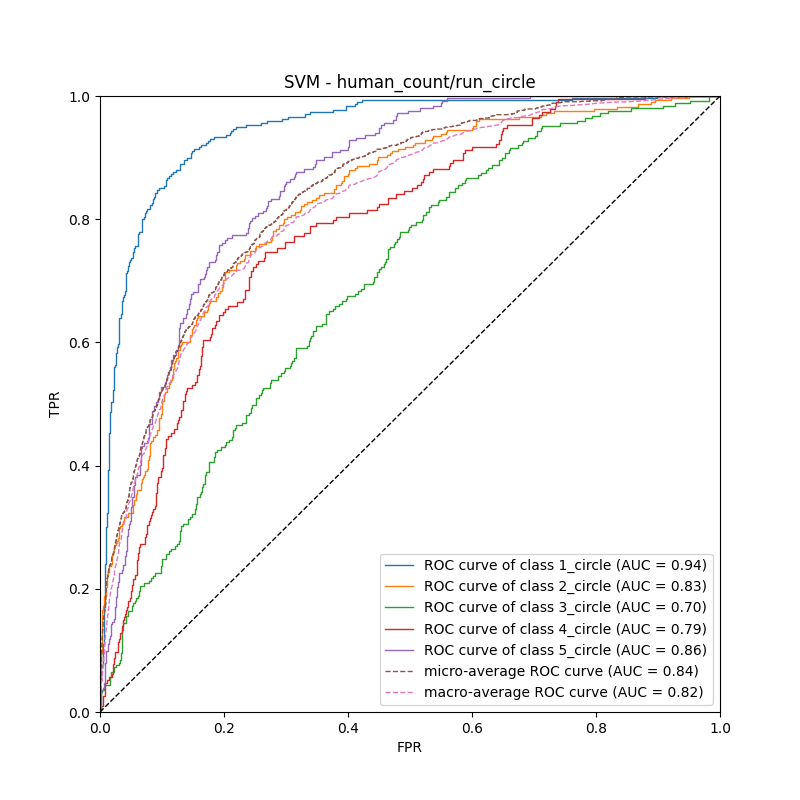
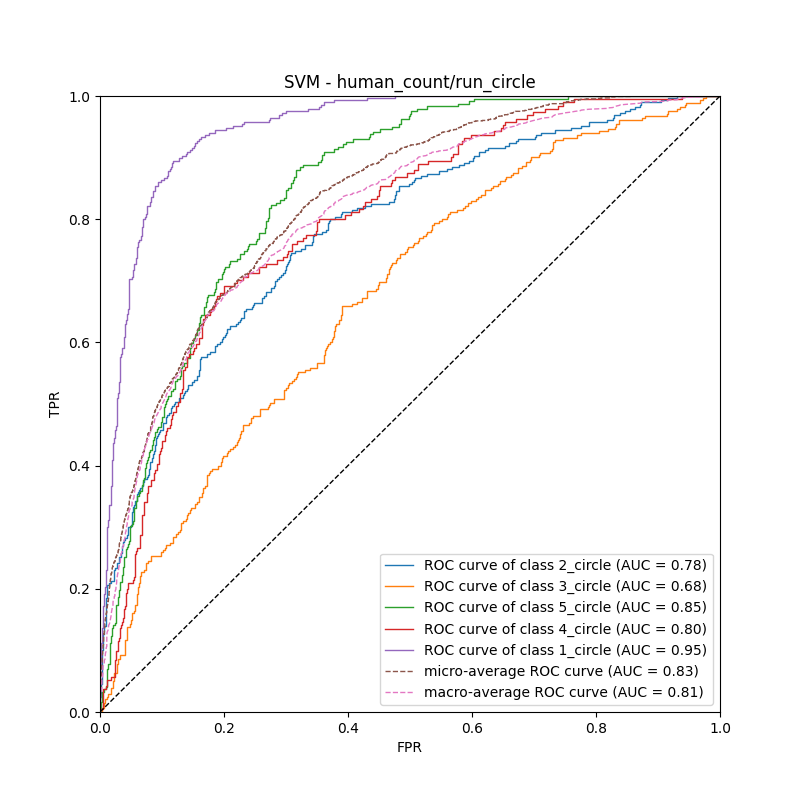
.

diff --git a/lstm.py b/lstm.py
@@ -6,13 +6,13 @@ from sklearn.model_selection import train_test_split
 from torch import nn, optim
 from torch.utils.data import DataLoader, TensorDataset
 
-from utils import load_data, plot_roc, evaluate
+from utils import evaluate, load_data, plot_roc
 
 data_dir = "data/500hz_csi_data/human_count/run_circle"
 labels = os.listdir(data_dir)
 random_state = 0
 batch_size = 32
-device = 'cpu'
+device = "cuda:0"
 
 
 class MyNN(nn.Module):
@@ -20,37 +20,38 @@ class MyNN(nn.Module):
         super(MyNN, self).__init__()
         self.in_proj = nn.Linear(in_features=d_in, out_features=d_hidden)  # 输入映射
         self.lstm = nn.LSTM(d_hidden, d_hidden, num_layers=lstm_layers)  # RNN网络
-        self.aggregate = nn.Conv1d(in_channels=seq_len, out_channels=1, kernel_size=1)  # 聚合函数
+        self.aggr = nn.Conv1d(in_channels=seq_len, out_channels=1, kernel_size=1)  # 聚合函数
         self.out_proj = nn.Linear(d_hidden, d_out)  # 输出映射
         #
         self.reset_parameters()
 
     def forward(self, x):
         x = self.in_proj(x)
-        x, (_, _) = self.lstm(x)
-        x = self.aggregate(x)
+        x, _ = self.lstm(x)
+        x = self.aggr(x)
         x = self.out_proj(x)
         return torch.softmax(x[:, 0], dim=-1)
 
-    def fit(self, data_train: tuple, data_test: tuple, epochs=100):
-        # ndarray to tenser
-        X_train = torch.from_numpy(data_train[0]).float()
-        y_train = torch.from_numpy(data_train[1]).long()
-        X_test = torch.from_numpy(data_test[0]).float()
-        y_test = torch.from_numpy(data_test[1]).long()
-        data_train = DataLoader(TensorDataset(X_train, y_train), batch_size, shuffle=True)
-        data_test = DataLoader(TensorDataset(X_test, y_test), batch_size, shuffle=False)
+    def fit(self, D_train: tuple, D_test: tuple, epochs=100):
+        #
+        X_train = torch.from_numpy(D_train[0]).to(device=device, dtype=torch.float)
+        y_train = torch.from_numpy(D_train[1]).to(device=device, dtype=torch.int64)
+        D_train = DataLoader(TensorDataset(X_train, y_train), batch_size, shuffle=True)
+        #
+        X_test = torch.from_numpy(D_test[0]).to(device=device, dtype=torch.float)
+        y_test = torch.from_numpy(D_test[1]).to(device=device, dtype=torch.int64)
+        D_test = DataLoader(TensorDataset(X_test, y_test), batch_size, shuffle=False)
         #
         loss_fn = nn.CrossEntropyLoss()
         optimizer = optim.Adam(net.parameters(), lr=1e-3)
         #
         outputs = None
         for epoch in range(epochs):
-            L_train, _ = self._run_epoch(data_train, loss_fn, optimizer, mode='train')
-            L_test, outputs = self._run_epoch(data_test, loss_fn, optimizer, mode='test')
+            L_train, _ = self._run_epoch(D_train, loss_fn, optimizer, mode="train")
+            L_test, outputs = self._run_epoch(D_test, loss_fn, optimizer, mode="test")
             accuracy = torch.sum(torch.argmax(outputs, -1) == y_test) / len(outputs)
-            print(f'epoch = {epoch}, loss_train = {L_train:.3f}, loss_test = {L_test:.3f}, accuracy = {accuracy:.3f}')
-        return outputs.numpy()
+            print(f"epoch = {epoch}, loss_train = {L_train:.3f}, loss_test = {L_test:.3f}, accuracy = {accuracy:.3f}")
+        return outputs.cpu().numpy().astype(np.float)
 
     def reset_parameters(self):
         for param in self.parameters():
@@ -60,8 +61,8 @@ class MyNN(nn.Module):
                 f_out = param.size(0)
                 nn.init.uniform_(param, -(f_out ** -0.5), f_out ** -0.5)
 
-    def _run_epoch(self, data: DataLoader, loss_fn: nn.Module, optimizer: optim.Optimizer, mode='train'):
-        is_train = mode == 'train'
+    def _run_epoch(self, data: DataLoader, loss_fn: nn.Module, optimizer: optim.Optimizer, mode="train"):
+        is_train = mode == "train"
         with torch.set_grad_enabled(is_train):
             outputs = []
             L_acc, L_ave = 0, 0
@@ -81,7 +82,7 @@ class MyNN(nn.Module):
 
 if __name__ == "__main__":
     # 加载数据
-    X, y, Y = load_data(data_dir, labels, length=300, stride=30)
+    X, y, Y = load_data(data_dir, labels, length=300, stride=10)
     # 切分数据
     X_train, X_test = train_test_split(X, test_size=0.4, random_state=random_state)
     y_train, y_test = train_test_split(y, test_size=0.4, random_state=random_state)
@@ -93,4 +94,4 @@ if __name__ == "__main__":
     y_pred = np.argmax(Y_score, -1)
     evaluate(y_test, y_pred)
     # 画出ROC曲线
-    plot_roc(Y_test, Y_score, labels, title="LSTM - human_count/run_circle", out_file="out/lstm.roc.png")
+    plot_roc(Y_test, Y_score, labels, title="LSTM(human_count/run_circle)", out_file="out/lstm.roc.png")

diff --git a/utils.py b/utils.py
@@ -3,19 +3,20 @@ import os
 import numpy as np
 from matplotlib import pyplot as plt
 from sklearn import metrics, preprocessing
+import torch
 
 
-def load_data(data_dir, labels, length, stride):
+def load_data(path, classes, length, stride):
     X, y = [], []
-    for i, label in enumerate(labels):
-        for file in os.listdir(f"{data_dir}/{label}/target"):
-            if file.endswith("wave.csv"):
-                mat = np.loadtxt(f"{data_dir}/{label}/target/{file}", delimiter=",")
-                ind = np.arange(0, len(mat) - length + 1, stride)
-                X += [mat[s : s + length] for s in ind]
+    for i, c in enumerate(classes):
+        for f in os.listdir(f"{path}/{c}/target"):
+            if f.endswith("wave.csv"):
+                arr = np.loadtxt(f"{path}/{c}/target/{f}", delimiter=",")
+                ind = np.arange(0, len(arr) - length + 1, stride)
+                X += [arr[s : s + length] for s in ind]
                 y += [i] * len(ind)
     X, y = np.array(X), np.array(y)
-    Y = preprocessing.label_binarize(y, classes=np.arange(len(labels)))  # onehot概率化
+    Y = preprocessing.label_binarize(y, classes=range(len(classes)))  # onehot概率化
     return X, y, Y
 
 
@@ -54,19 +55,18 @@ def plot_roc(Y_test, Y_score, labels, title=None, out_file=None):
 
 
 def evaluate(y_true, y_pred):
-    scores = {
-        "accuracy": metrics.accuracy_score(y_true, y_pred),
-        "macro_precision": metrics.precision_score(y_true, y_pred, average="macro"),
-        "micro_precision": metrics.precision_score(y_true, y_pred, average="micro"),
-        "weighted_precision": metrics.precision_score(y_true, y_pred, average="weighted"),
-        "macro_recall": metrics.recall_score(y_true, y_pred, average="macro"),
-        "micro_recall": metrics.recall_score(y_true, y_pred, average="micro"),
-        "weighted_recall": metrics.recall_score(y_true, y_pred, average="weighted"),
-        "macro_f1": metrics.f1_score(y_true, y_pred, average="macro"),
-        "micro_f1": metrics.f1_score(y_true, y_pred, average="micro"),
-        "weighted_f1": metrics.f1_score(y_true, y_pred, average="weighted"),
-    }
-    for k, score in scores.items():
-        print(f"{k:>20}: {score:.3f}")
-    confusion_matrix = metrics.confusion_matrix(y_true, y_pred)
-    print(f"    confusion_matrix:\n{confusion_matrix}")
+    print(f"● Accuracy            = {metrics.accuracy_score(y_true, y_pred):.3f}")
+    #
+    print(f"● Precision(macro)    = {metrics.precision_score(y_true, y_pred, average='macro'):.3f}")
+    print(f"● Precision(micro)    = {metrics.precision_score(y_true, y_pred, average='micro'):.3f}")
+    print(f"● Precision(weighted) = {metrics.precision_score(y_true, y_pred, average='weighted'):.3f}")
+    #
+    print(f"● Recall(macro)       = {metrics.precision_score(y_true, y_pred, average='macro'):.3f}")
+    print(f"● Recall(micro)       = {metrics.precision_score(y_true, y_pred, average='micro'):.3f}")
+    print(f"● Recall(weighted)    = {metrics.precision_score(y_true, y_pred, average='weighted'):.3f}")
+    #
+    print(f"● F1(macro)           = {metrics.precision_score(y_true, y_pred, average='macro'):.3f}")
+    print(f"● F1(micro)           = {metrics.precision_score(y_true, y_pred, average='micro'):.3f}")
+    print(f"● F1(weighted)        = {metrics.precision_score(y_true, y_pred, average='weighted'):.3f}")
+    #
+    print(f"● Confusion Matrix    =\n{metrics.confusion_matrix(y_true, y_pred)}")

diff --git a/svm.py b/svm.py
@@ -4,15 +4,11 @@ import numpy as np
 from matplotlib import pyplot as plt
 from sklearn import metrics, model_selection, preprocessing
 from sklearn.decomposition import PCA
-from sklearn.svm import SVC
-
-import os
-
-from sklearn.decomposition import PCA
 from sklearn.ensemble import RandomForestClassifier
 from sklearn.model_selection import train_test_split
+from sklearn.svm import SVC
 
-from utils import load_data, plot_roc, evaluate
+from utils import evaluate, load_data, plot_roc
 
 data_dir = "data/500hz_csi_data/human_count/run_circle"
 labels = os.listdir(data_dir)
@@ -38,4 +34,4 @@ if __name__ == "__main__":
     evaluate(y_test, y_pred)
     # 画出ROC曲线
     Y_score = classifier.predict_proba(X_test)
-    plot_roc(Y_test, Y_score, labels, title="SVM - human_count/run_circle", out_file="out/svm.roc.png")
+    plot_roc(Y_test, Y_score, labels, title="SVM(human_count/run_circle)", out_file="out/svm.roc.png")

diff --git a/random_forest.py b/random_forest.py
@@ -4,7 +4,7 @@ from sklearn.decomposition import PCA
 from sklearn.ensemble import RandomForestClassifier
 from sklearn.model_selection import train_test_split
 
-from utils import load_data, plot_roc, evaluate
+from utils import evaluate, load_data, plot_roc
 
 data_dir = "data/500hz_csi_data/human_count/run_circle"
 labels = os.listdir(data_dir)
@@ -31,5 +31,5 @@ if __name__ == "__main__":
     # 画出ROC曲线
     Y_score = classifier.predict_proba(X_test)
     plot_roc(
-        Y_test, Y_score, labels, title="Random Forest - human_count/run_circle", out_file="out/random_forest.roc.png"
+        Y_test, Y_score, labels, title="Random Forest(human_count/run_circle)", out_file="out/random_forest.roc.png"
     )

diff --git a/logistics_regression.py b/logistics_regression.py
@@ -4,7 +4,7 @@ from sklearn.decomposition import PCA
 from sklearn.linear_model import LogisticRegressionCV
 from sklearn.model_selection import train_test_split
 
-from utils import load_data, plot_roc, evaluate
+from utils import evaluate, load_data, plot_roc
 
 data_dir = "data/500hz_csi_data/human_count/run_circle"
 labels = os.listdir(data_dir)
@@ -34,6 +34,6 @@ if __name__ == "__main__":
         Y_test,
         Y_score,
         labels,
-        title="Logistic Regression - human_count/run_circle",
+        title="Logistic Regression(human_count/run_circle)",
         out_file="out/logistic_regression.roc.png",
     )
